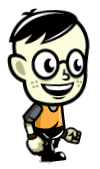
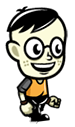
Player Resized and Level design changed

diff --git a/CatchTheDeadline/src/gameobjects/Player.java b/CatchTheDeadline/src/gameobjects/Player.java
@@ -49,8 +49,8 @@ public class Player extends GameObject {
 	public Player(float x, float y, Handler handler, ObjectType type) {
 		super(x, y, type);
 		this.handler = handler;
-		playerWalk = new Animation( 5, texture.playerRun ); 
-		playerWalkM = new Animation( 5, texture.playerRunM ); 
+		playerWalk = new Animation( 1, texture.playerRun ); 
+		playerWalkM = new Animation( 1, texture.playerRunM );
 	}
 	
 	// methods
@@ -132,27 +132,26 @@ public class Player extends GameObject {
 	@Override
 	public void render(Graphics graphics) {
 		
-		//graphics.fillRect((int)posX, (int)posY, (int)width, (int)height );
-
-		//Graphics2D graphics2d = (Graphics2D) graphics; 
 		if( velocityX > 0 )
 			playerWalk.drawAnimation(graphics, (int) posX, (int) posY, (int) width, (int) height);
 		else if( velocityX < 0 )
 			playerWalkM.drawAnimation(graphics, (int) posX, (int) posY, (int) width, (int) height);
 		else
 			graphics.drawImage( player.getImage(), (int) posX, (int) posY, (int) width, (int) height, null );
-		//graphics2d.drawImage( RunSlowGIF.getImage(), (int) posX, (int) posY, null );// gif animation
 		
+		//graphics.fillRect((int)posX, (int)posY, (int)width, (int)height );
+		//graphics2d.drawImage( RunSlowGIF.getImage(), (int) posX, (int) posY, null );// gif animation
 		//graphics2d.drawImage( player.getImage(), (int) posX+10, (int) posY+10, null );
 		
 		///////////~FOR CHECKING BOUNDS ON DEBUG MODE~///////////////////////////
-		//graphics.setColor(Color.red);
+		//Graphics2D graphics2d = (Graphics2D) graphics; 
+		//graphics2d.setColor(Color.red);
 		//Color myColour = new Color(255, 0, 0, 0); // for making the lines transparent
         //graphics.setColor(myColour);
-		//g2d.draw(objectBounds());
-		//g2d.draw(objectBoundsRight());
-		//g2d.draw(objectBoundsLeft());
-		//g2d.draw(objectBoundsTop());
+		//graphics2d.draw(objectBounds());
+		//graphics2d.draw(objectBoundsRight());
+		//graphics2d.draw(objectBoundsLeft());
+		//graphics2d.draw(objectBoundsTop());
 		////////////////////////////////////////
 	}
 

diff --git a/CatchTheDeadline/src/gameManager/Texture.java b/CatchTheDeadline/src/gameManager/Texture.java
@@ -12,7 +12,7 @@ public class Texture {
 	private BufferedImage playerRunSprite = null, playerRunSpriteM = null;
 	public BufferedImage[] playerRun = new BufferedImage[42];
 	public BufferedImage[] playerRunM = new BufferedImage[42];
-	int x1 = 100, y1 = 169;
+	int x1 = 75, y1 = 127;
 	SpriteSheet ps, psM;
 	
 	public Texture() {
